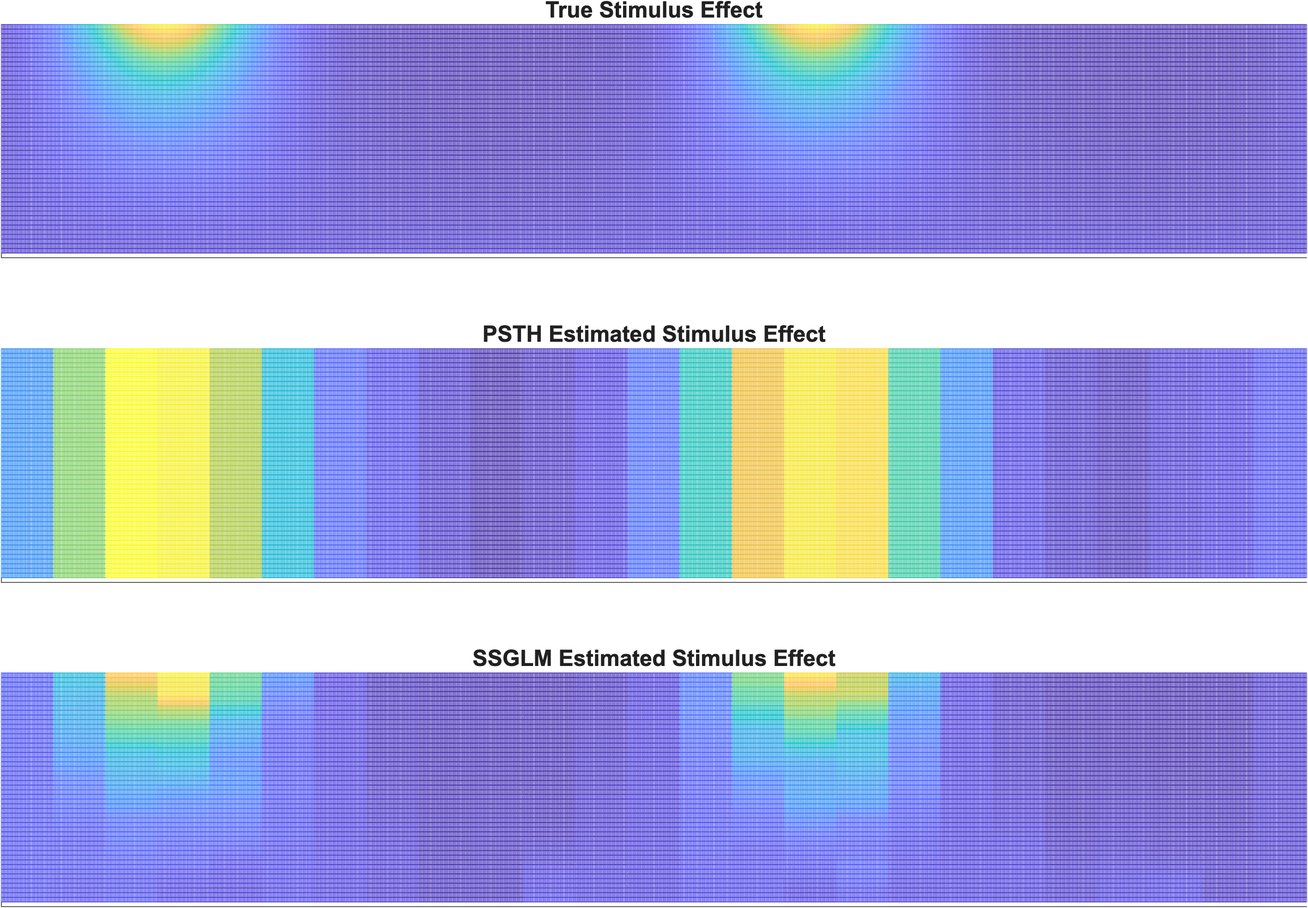
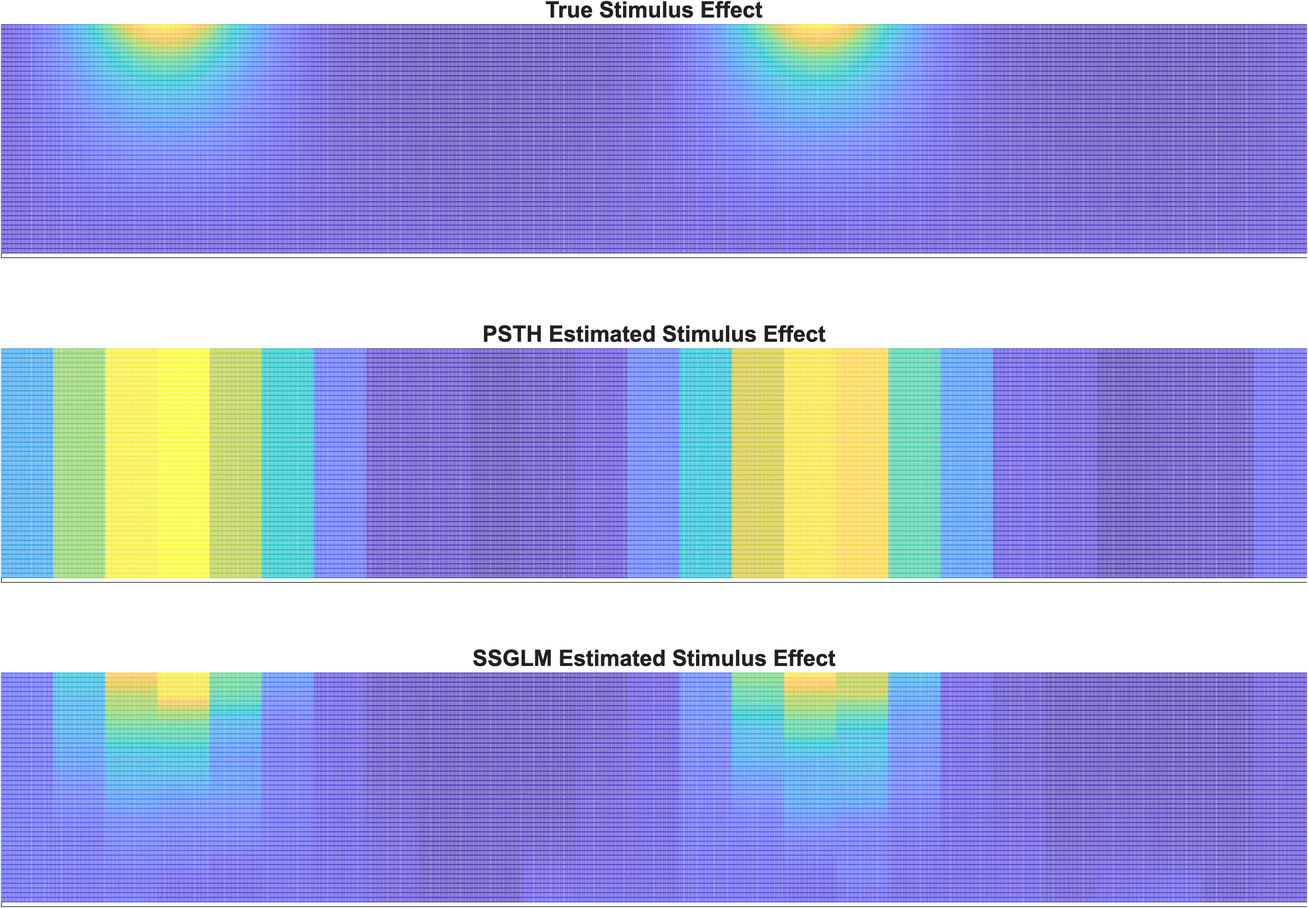
release(v1.6.0): stamp version, notes, toolbox version; rebaseline gallery under R2026a
- tools/stamp_release('v1.6.0'): Contents.m (Version 1.6 6-Oct-2026),
  docs/figures/manifest.json, RELEASE_NOTES.md v1.6.0 entry (the two
  Unreleased EM sections are now its subsections).
- toolboxOptions.m ToolboxVersion 1.5.1 -> 1.6.0 (it was not bumped for
  v1.5.2; the .mltbx is named and versioned from it).
- Paper-example gallery regenerated with build_paper_examples (Seed 0)
  under R2026a Update 3: example05 fig05/fig06 had drifted (mean |delta|
  0.6137 / 1.3231); the v1.5.2 code reproduces the identical drift, so it is
  a rendering-environment change, not a code change.

predeploy (R2026a): unit + integration 181/0, helpfile republish +
blank-figure validation, helptoc lint and bug-pattern audit PASS; README
figure parity PASS after the rebaseline (21 identical, 3 allowlisted
nondeterministic, 0 substantive). nSTAT-1.6.0.mltbx builds (10.2 MB) and
installs as nSTAT 1.6.0.

Changed region(s): [[0.4972, 0.3723, 0.6215, 0.6516], [0.8701, 0.3723, 0.9633, 0.6516], [0.2797, 0.3723, 0.3418, 0.6516]]

diff --git a/toolboxOptions.m b/toolboxOptions.m
@@ -23,7 +23,7 @@ opts = matlab.addons.toolbox.ToolboxOptions(repoRoot, identifier);
 
 % --- Metadata ----------------------------------------------------------
 opts.ToolboxName     = "nSTAT";
-opts.ToolboxVersion  = "1.5.1";
+opts.ToolboxVersion  = "1.6.0";
 opts.Description     = "Neural Spike Train Analysis Toolbox for MATLAB. Point-process and state-space methods for spike-train analysis: PP-GLM fitting (Poisson and binomial), time-rescaling KS goodness-of-fit, PPAF (point-process adaptive filter), PPHF (hybrid discrete + continuous-state filter), SSGLM (state-space GLM), and PPLFP (multi-modal spike + LFP sensor-fusion filter).";
 opts.Summary         = "Point-process and state-space methods for spike-train analysis (Cajigas, Malik & Brown 2012).";
 

diff --git a/Contents.m b/Contents.m
@@ -1,5 +1,5 @@
 % nSTAT - Neural Spike Train Analysis Toolbox
-% Version 1.5 22-Jun-2026
+% Version 1.6 6-Oct-2026
 %
 % nSTAT implements point process generalized linear models and related
 % algorithms for neural spike train data analysis. See README.md for

diff --git a/RELEASE_NOTES.md b/RELEASE_NOTES.md
@@ -1,10 +1,19 @@
 # nSTAT Release Notes
 
-## Unreleased — Kalman-filter EM (`fix/kf-em`)
+## v1.6.0 — 6-Oct-2026
+
+Point-process and Kalman-filter EM release. `PP_EM` could not run in any configuration and `KF_EM`'s main loop was unreachable; both families now run and are numerically correct, and the standard-error routines no longer hang on singular information (#135, #137, #138). Mirrored by nstat-python v0.6.0.
+
+- **Correctness fixes**: see the two subsections below (per-commit tables).
+- **New capabilities**: optional trailing `delta` inputs to `PP_MStep` / `PPLFP_MStep`; the GLM M-step (`MstepMethod='GLM'`) now warns once per call (`nSTAT:EM:glmPlugIn`).
+- **Breaking changes**: EM defaults are now the NewtonRaphson M-step with x0/Px0 not estimated (PP and PPLFP); SE/Pvals layout and values, IC scale, and non-diagonal Q0/R0 behaviour change; `KF_EM`'s internal static method is renamed `KF_RunEM` (the public `DecodingAlgorithms.KF_EM` entry point is unchanged). Details in the subsections.
+- **Paper-example gallery rebaselined under R2026a Update 3** (`build_paper_examples`): example05 fig05/fig06 had drifted (mean |Δ| 0.61 / 1.32) under the current MATLAB release. The v1.5.2 code shows the identical drift, so it is a rendering-environment change, not a code change. `check_readme_figures` now reports 21 identical, 3 allowlisted-nondeterministic, 0 substantive.
+
+### Kalman-filter EM (#138)
 
 Repairs `nstat.decoding.KF_EM` with the same defect classes the point-process EM repair (`fix/pp-em`, above) found and fixed in `PointProcessEM`/`PPLFP`, plus one defect specific to this class: its main EM loop was a Static method named identically to its own class, which MATLAB always dispatches as the constructor, so it was unreachable through either of its two documented entry points. Also adds a GLM-plug-in-M-step warning (`PP_EM`/`PP_MStep`/`PPLFP_EM`/`PPLFP_MStep`) and documentation of two pre-existing, user-decided behaviours (the whitened-frame meaning of `QhatDiag`/`RhatDiag`, and EM's "stop at first decrease" rule).
 
-### Correctness fixes
+#### Correctness fixes
 
 | PR / commit | Class | Site | Effect |
 |---|---|---|---|
@@ -17,21 +26,21 @@ Repairs `nstat.decoding.KF_EM` with the same defect classes the point-process EM
 | `c7d177e` | hang | `KF_ComputeParamStandardErrors` with SEs requested, singular observed information | Same pattern as `#136` (`PointProcessEM`/`PPLFP`): `eye(size(IObs))/IObs` is Inf/NaN on an exactly singular `IObs`, and `nearestSPD`'s `while p ~= 0` loop never returns on a NaN matrix. Now reuses `PointProcessEM.seObservedInfoInverse`: a zero pivot falls back to the pseudo-inverse, flags the non-identifiable terms (SE/p-value NaN) with `nSTAT:EM:singularInformation`, and a non-finite information matrix raises `nSTAT:EM:nonFiniteInformation` instead of looping. Nonsingular information is unchanged (bit-identical). |
 | `3f91924` | new warning | `PP_EM`/`PP_MStep`/`PPLFP_EM`/`PPLFP_MStep` with `MstepMethod='GLM'` | Warns once per top-level call, id `nSTAT:EM:glmPlugIn`: the GLM M-step is a plug-in fit on the smoothed means (ignores `W_K`), which inflates β and can drift; `NewtonRaphson` (the default) is preferred. No numerical output changes. `mPPCO_EM`/`mPPCO_MStep` inherit it via their existing forward to `PPLFP`. |
 
-### Breaking changes
+#### Breaking changes
 
 - **`nstat.decoding.KF_EM.KF_EM` is renamed `KF_RunEM`** (`dd7c7d5`). This is not a behavioural break in practice: the old name never worked (every call errored), so nothing could have depended on it. `DecodingAlgorithms.KF_EM` (the deprecated outward-facing name) is unchanged; it now forwards to `KF_RunEM`.
 - **`KF_RunEM`'s `SE`, `Pvals` and `IC`** move whenever SEs are requested or `Q0`/`R0` is non-diagonal (`6ba92cb`, `dcf03eb`, `5b942b3`, `178917c`) — see the table above. Direct `KF_EStep`/`KF_ComputeParamStandardErrors`/`KF_MStep` calls are unaffected except by the precedence (`5b942b3`), draws (`178917c`) and singular-information (`c7d177e`) fixes, which apply there too.
 
-### Docs only (no numerical change)
+#### Docs only (no numerical change)
 
 - `PP_EMCreateConstraints` / `PPLFP_EMCreateConstraints` / `KF_EMCreateConstraints`: `QhatDiag=1` / `RhatDiag=1` mean "diagonal in the frame whitened by Q0 / R0", not in the caller's own coordinates, whenever Q0 / R0 is non-diagonal.
 - `PP_EM` / `PPLFP_EM` / `KF_EM` (`KF_RunEM`): EM stops at the first decrease of the log-likelihood, not at convergence; for `PP_EM`/`PPLFP_EM` this makes the stopping iteration random under the Monte Carlo M-step (6–11 observed on one problem), while `KF_RunEM`'s closed-form E/M steps make it deterministic for a fixed problem.
 
-## Unreleased — point-process EM (`fix/pp-em`)
+### Point-process EM and SE singular information (#135, #137)
 
 Makes `nstat.decoding.PointProcessEM.PP_EM` run (it could not run in any configuration) and fixes a series of correctness defects in the point-process EM / PPLFP / decoder cluster found while doing so. Two **default changes** (`PP_EM` and `PPLFP_EM` now use the NewtonRaphson M-step and do not estimate x0/Px0) and one **SE output-layout change** — see *Breaking changes*. The binomial likelihood throughout is the toolbox's point-process form `log L = Σ dN·log p − p`, `p = logistic(η)`.
 
-### Correctness fixes
+#### Correctness fixes
 
 | PR / commit | Class | Site | Effect |
 |---|---|---|---|
@@ -62,7 +71,7 @@ Makes `nstat.decoding.PointProcessEM.PP_EM` run (it could not run in any configu
 | #136 | hang | both SE routines (`PP_EM` / `PPLFP_EM` with SEs requested) | An exactly singular observed information (a separated history window: no spike in it is followed by a spike, so its gamma walks to the `exp()` underflow and its information and score are exactly 0) made `eye/IObs` Inf/NaN, and `nearestSPD` then never returned. Now the pseudo-inverse is used, the parameters in its null space are reported with NaN SE and p-value and named in a `nSTAT:EM:singularInformation` warning, only the identifiable block is projected with `nearestSPD` (which also does not return on a singular matrix), and a non-finite information matrix raises `nSTAT:EM:nonFiniteInformation`. Nonsingular information is unchanged (bit-identical). |
 | `6d42ece` | side effect | GLM M-steps | `warning('OFF')` now restores the caller's warning state on exit. |
 
-### Breaking changes
+#### Breaking changes
 
 - **`PP_EM` / `PP_MStep` (`b0d83fd`) and `PPLFP_EM` / `PPLFP_MStep` (`7cea336`): default `MstepMethod` is now `'NewtonRaphson'`** (was `'GLM'`, a plug-in fit on the smoothed means that inflates β and drifts). Pass `'GLM'` explicitly for the old behaviour.
 - **`PP_EMCreateConstraints` / `PPLFP_EMCreateConstraints`: `Estimatex0` and `EstimatePx0` now default to 0** (were 1; the single-sample Px0 update collapses Px0 to ~0 and sends the log-likelihood to +Inf after ~2 iterations). All other constraint defaults are unchanged. Pass them as 1 for the old behaviour.
@@ -75,7 +84,7 @@ Makes `nstat.decoding.PointProcessEM.PP_EM` run (it could not run in any configu
 - **Standard errors (`2a858a0`)**: `SE` / `Pvals` from both SE routines and both EM drivers change. SE.Q and SE.R were about K/2 too large and SE.Px0 2× too small, and through `nearestSPD` every other SE was affected too.
 - The per-iteration `logll:` console line stays on the internal scaled system (see the `PP_EM` / `PPLFP_EM` help); `IC.llcomp` is on the original scale.
 
-### New capabilities
+#### New capabilities
 
 - **Optional `delta` inputs**: `PP_MStep(…, MstepMethod, delta)` (15th input) and `PPLFP_MStep(…, MstepMethod, delta)` (16th input), default 0.001 s; `PP_EM` / `PPLFP_EM` pass their `delta`. Existing positional arguments are unchanged.
 - Tests: `tests/unit/testPointProcessEMRuns.m`, `testEMMonteCarloDraws.m`, `testPointProcessEMCorrectness.m`, `testPPLFPEMCorrectness.m`, `testDecoderCorrectness.m`, `testFitResSummaryHistIndex.m`; slow full-EM tests in `tests/integration/testPointProcessEMIntegration.m` (`tools/run_unit_tests.sh --integration`).
